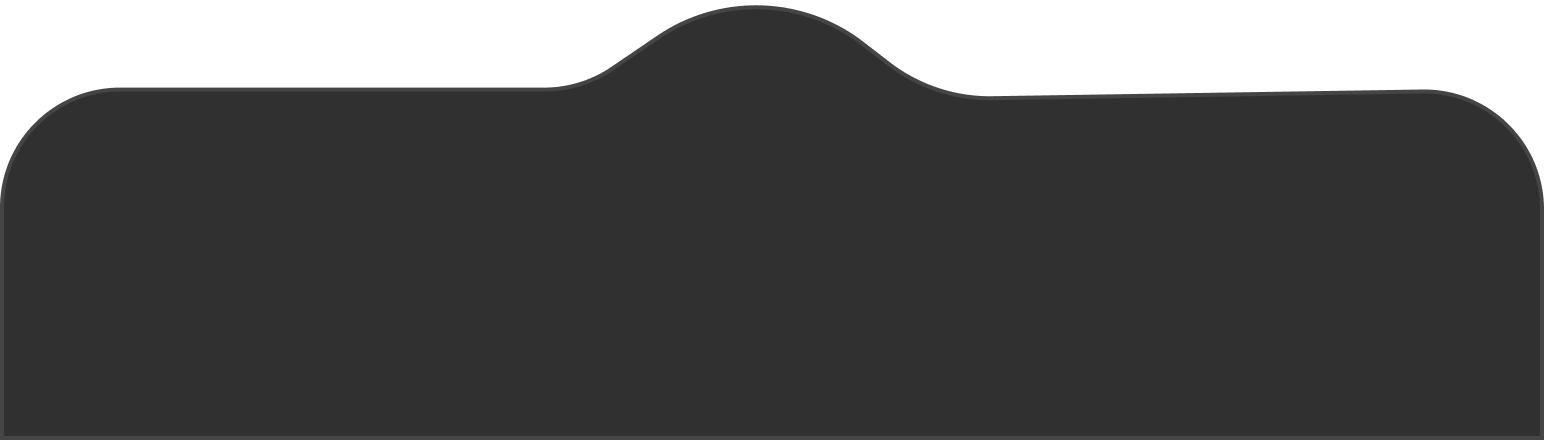
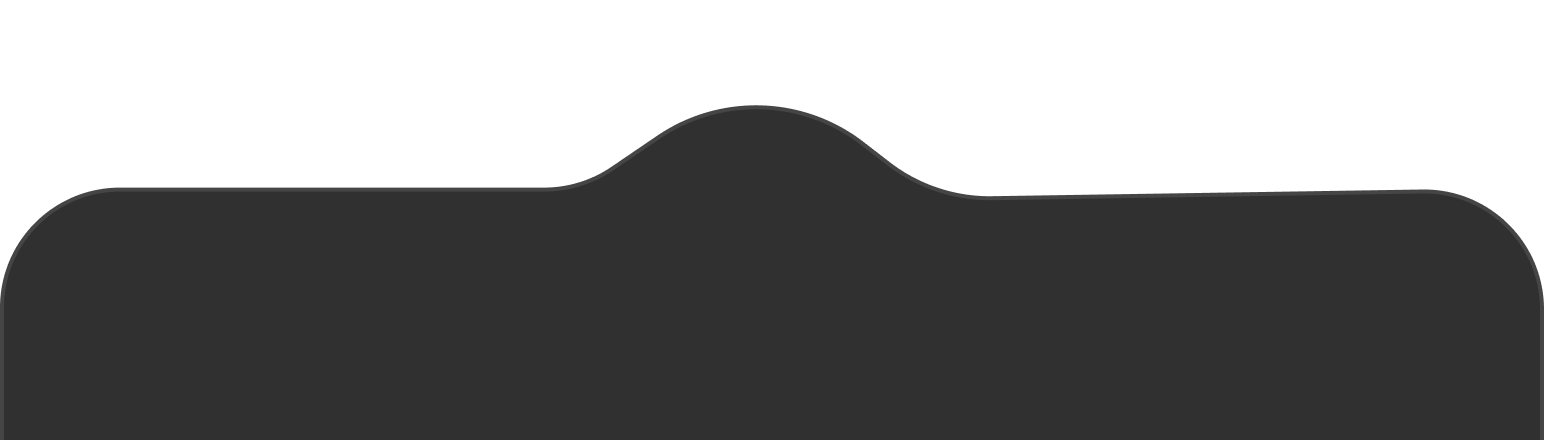
BankingApp

Changed region(s): [[0.0, 0.0, 1.0, 0.6795]]

diff --git a/src/screens/HomeScreen/Style.tsx b/src/screens/HomeScreen/Style.tsx
@@ -48,7 +48,7 @@ const Styles = StyleSheet.create({
         width: 33,
         height:33,
         marginTop:hp('5%'),
-        marginLeft: wp('9%'),
+        marginLeft: wp('12%'),
 
         
       
@@ -70,7 +70,7 @@ const Styles = StyleSheet.create({
         alignSelf: 'center',
         borderRadius: 12,
         elevation: 3,
-        padding:1
+        paddingBottom:10
         
     },
     FlybankStyle: {
@@ -171,7 +171,7 @@ const Styles = StyleSheet.create({
     ListViewStyle: {
         flexDirection: 'row',
         justifyContent: 'space-around',
-        marginTop:'4%'
+        marginTop:'8%'
     },
     ListView: {
         alignItems: 'center',
@@ -361,14 +361,13 @@ const Styles = StyleSheet.create({
         fontSize:10,
         color:Colors.white,
         left:20,
-        top:3
-        // top:-46
+        top:"0%"
     },
     CashBack:{
         color:Colors.white,
         fontFamily:theme.EXTRABOLD,
         fontSize:16,
-        top:1,
+        top:hp(-1),
         textAlign:'center',
         left:20,
 
@@ -378,7 +377,7 @@ const Styles = StyleSheet.create({
         fontFamily:theme.BOLD,
         fontSize:39,
         left:30,
-        top:-10
+        top:hp(-2)
     },
     OfferView:{
         flexDirection:'row',
@@ -389,14 +388,14 @@ const Styles = StyleSheet.create({
         fontSize:13,
         color:Colors.white,
         left:29,
-        marginTop:'8%'
+        top:hp(-1.2)
     },
     TextStylePeriod:{
         fontSize:8,
         color:'#FFFFFF',
         left:wp("6"),
         fontWeight:500,
-        top:hp("-2")
+        top:hp(-2)
     },
     Person1Style:{
         width:48,
@@ -432,8 +431,13 @@ const Styles = StyleSheet.create({
         fontFamily:theme.SEMIBOLD,
         fontSize:15,
         color:Colors.ButtonColor,
-        // left:60
-        marginLeft:'28%'
+        left:wp('18%')
+    },
+    DollarsStyle2:{
+        fontFamily:theme.SEMIBOLD,
+        fontSize:15,
+        color:Colors.ButtonColor,
+        left:wp('23%')   
     },
     FillCircle:{
         width:35,
@@ -442,7 +446,7 @@ const Styles = StyleSheet.create({
     LineImage:{
         width:26,
         left:25,
-        top:-10
+        top:hp(-2.5)
     }
 
 

diff --git a/src/screens/LoginScreen/Index .tsx b/src/screens/LoginScreen/Index .tsx
@@ -194,7 +194,7 @@ const LoginScreen = () => {
                                         setLoginEmail(text);
                                         validateEmailOnChange(text);
                                     }}
-                                    addLeft={<Image style={Styles.EmailImage} source={require('../../images/email.png')} />}
+                                    addLeft={<Image resizeMode='contain' style={Styles.EmailImage} source={require('../../images/email.png')} />}
                                 />
                                 {loginEmailError ? (
                                     <View style={Styles.LoginEmailError}>
@@ -205,7 +205,7 @@ const LoginScreen = () => {
                             <View>
                                 <View style={Styles.inputContainer}>
                                     <View>
-                                        <Image style={Styles.PassImage} source={require('../../images/password.png')} />
+                                        <Image resizeMode='contain' style={Styles.PassImage} source={require('../../images/password.png')} />
                                     </View>
                                     <TextInput
                                         value={loginPassword}
@@ -277,8 +277,6 @@ const LoginScreen = () => {
                                     </View>
                                 ) : null}
                             </View>
-
-
                             <View style={Styles.CustomInputStyle}>
                                 <CustomInput
                                     placeholder={'Email'}

diff --git a/src/navigation/BottomNavigation.tsx b/src/navigation/BottomNavigation.tsx
@@ -26,21 +26,20 @@ const BottomNavigation = () => {
                 tabBarInactiveTintColor: '#646464',
                 tabBarStyle: {
                     position: 'absolute',
-                    backgroundColor: 'transparent',
+                    backgroundColor: '#303030',
                     borderTopWidth: wp(0),
-                    height: hp('14%'),
+                    height: hp('15%'),
                     overflow: 'hidden',
-
-
+                    // borderTopEndRadius:50,
+                    // borderTopStartRadius:50
                 },
                 tabBarBackground: () => (
-                    <ImageBackground resizeMode='contain'
+                    <ImageBackground 
                         source={require('../images/back.png')}
                         style={styles.backgroundImage}
                     />
                 ),
-            }}
-        >
+            }}>
             <Bottom.Screen
                 name="HOME"
                 component={HomeScreen}
@@ -101,8 +100,6 @@ const BottomNavigation = () => {
                                 ]}
                                 source={require('../images/scan2.png')}
                             />
-
-
                         </View>
                     ),
                 }}

diff --git a/src/screens/LoginScreen/Style.tsx b/src/screens/LoginScreen/Style.tsx
@@ -2,11 +2,8 @@ import { StyleSheet, Dimensions, PixelRatio } from 'react-native';
 import theme from '../../utils/Constants';
 import Colors from '../../themes/Colors/Index';
 import { widthPercentageToDP as wp, heightPercentageToDP as hp } from 'react-native-responsive-screen';
-
 const { width, height } = Dimensions.get('window');
-
 const fontSize = (size: number) => size / PixelRatio.getFontScale(); 
-
 const Styles = StyleSheet.create({
     HelloTextStyle: {
         fontFamily: theme.REGULAR,
@@ -57,7 +54,7 @@ const Styles = StyleSheet.create({
     LoginText: {
         textAlign: 'center',
         alignSelf: 'center',
-        paddingTop: hp('1.3%'),
+        paddingTop: hp('1.4%'),
         color: Colors.Login,
         fontFamily: theme.SEMIBOLD,
         fontSize: fontSize(12)
@@ -95,7 +92,7 @@ const Styles = StyleSheet.create({
         marginTop:wp('60%')
     },
     EmailImage: {
-        width: wp('4.5%'),
+        width: wp('5%'),
         height: hp('2%'),
         marginLeft: wp('6%')
     },
@@ -118,7 +115,6 @@ const Styles = StyleSheet.create({
        height:hp("3%"),
        resizeMode:"contain",
        marginLeft: wp('6%')
-
     },
     CheckBoxStyle: {
         flexDirection: 'row',

diff --git a/src/screens/Notification/Index.tsx b/src/screens/Notification/Index.tsx
@@ -15,11 +15,21 @@ const Notification = () => {
     type NavigationProp = StackNavigationProp<RootStackParamList, 'Bottom'>;
     const navigation = useNavigation<NavigationProp>();  return (
     <ScrollView style={Styles.MainView}>
-        <CustomLabel title='Notifications' addLeft={
+        {/* <CustomLabel title='Notifications'
+         addLeft={
             <TouchableOpacity  onPress={()=>navigation.goBack()}>
                 <Image style={Styles.LeftStyle}  source={require('../../images/left.png')}/>
             </TouchableOpacity>
-        }/>
+        }/> */}
+        <View style={Styles.ImageTextStyle}>
+            <TouchableOpacity onPress={()=>navigation.goBack()}>
+            <Image  style={Styles.LeftStyle} source={require('../../images/left.png')}/>
+
+            </TouchableOpacity>
+            <Text style={Styles.LabelStyle}>
+         Notifications
+            </Text>
+        </View>
         <View>
             <Text style={Styles.TodayText}>Today</Text>
         </View>

diff --git a/src/screens/ListScreen/Index.tsx b/src/screens/ListScreen/Index.tsx
@@ -1,11 +1,11 @@
-import { ImageBackground, StyleSheet, Text, TouchableOpacity, View } from 'react-native'
+import { ImageBackground, ScrollView, StyleSheet, Text, TouchableOpacity, View } from 'react-native'
 import React from 'react'
 import Styles from './Style'
 import { Image } from 'react-native'
 
 const ListScreen = () => {
     return (
-        <View >
+        <ScrollView >
             <ImageBackground resizeMode='cover' style={Styles.MainImage} source={require('../../images/home2.png')}>
                 <View>
                     <ImageBackground resizeMode='contain' style={Styles.RectangleImageStyle} source={require('../../images/rectangle4.png')} />
@@ -76,7 +76,7 @@ const ListScreen = () => {
                 
             </ImageBackground>
 
-        </View>
+        </ScrollView>
     )
 }
 

diff --git a/src/screens/ListScreen/Style.tsx b/src/screens/ListScreen/Style.tsx
@@ -1,15 +1,20 @@
-import { StyleSheet, Text, View } from 'react-native'
+import { Dimensions, PixelRatio, StyleSheet, Text, View } from 'react-native'
 import React from 'react'
 import theme from '../../utils/Constants'
 import Colors from '../../themes/Colors/Index'
+import { widthPercentageToDP as wp, heightPercentageToDP as hp } from 'react-native-responsive-screen';
 
+const { width, height } = Dimensions.get('window');
+
+const fontSize = (size: number) => size / PixelRatio.getFontScale(); 
 
 const Styles = StyleSheet.create({
     RectangleImageStyle:{
-     width:'100%',
-     height:158,
+     width:'93%',
+     height:hp("22%"),
      alignSelf:'center',
      marginTop:'19%',
+     marginLeft:wp('9%')
     },
     MainImage:{
         width:'100%',

diff --git a/src/screens/Notification/Style.tsx b/src/screens/Notification/Style.tsx
@@ -11,7 +11,7 @@ const Styles = StyleSheet.create({
     LeftStyle: {
         width: 33,
         height: 33.9,
-        right: '270%'
+        marginLeft:'20%'
     },
     TodayText:{
         fontFamily:theme.MEDIUM,
@@ -66,6 +66,19 @@ const Styles = StyleSheet.create({
         color:'#858585',
         fontFamily:theme.REGULAR,
         fontSize:9
+    },
+    LabelStyle:{
+        fontFamily:theme.SEMIBOLD,
+        fontSize:20,
+        color:Colors.white,
+        textAlign:'center',
+        flex:1,
+        marginRight:'20%'
+    },
+    ImageTextStyle:{
+    flexDirection:"row",
+    alignItems:'center',
+    marginTop:"10%",
     }
 })
 export default Styles

diff --git a/src/components/CustomLabel/Index.tsx b/src/components/CustomLabel/Index.tsx
@@ -13,7 +13,6 @@ const CustomLabel = (props:CustomLabelprops) => {
     </View>
   )
 }
-
 export default CustomLabel
 
 const styles = StyleSheet.create({
@@ -22,7 +21,8 @@ const styles = StyleSheet.create({
     alignSelf:'center',
     flexDirection:'row',
     alignItems:'center',
-    justifyContent:'space-between'
+    justifyContent:'space-between',
+    width:'90%'
     },
     LabelStyle:{
         fontFamily:theme.SEMIBOLD,

diff --git a/src/screens/HomeScreen/Index.tsx b/src/screens/HomeScreen/Index.tsx
@@ -176,7 +176,7 @@ const HomeScreen = () => {
                     <Text style={Styles.DateStyle}>29 December 2024</Text>
                 </View>
                 <View>
-                    <Text style={[Styles.DollarsStyle, { left: '10%', }]}>+$ 81.12,00</Text>
+                    <Text style={Styles.DollarsStyle2}>+$ 81.12,00</Text>
                 </View>
             </View>
             

diff --git a/src/screens/DepositeScreen/Style.tsx b/src/screens/DepositeScreen/Style.tsx
@@ -12,13 +12,13 @@ const Styles = StyleSheet.create({
     LeftStyle: {
         width: 33,
         height: 33.9,
-        right: '280%',
+        // right: '280%',
         marginTop:'10%'
     },
     bellstyle: {
         width: 33,
         height: 33.9,
-        left:'280%',
+        // left:'280%',
         marginTop:'10%'
 
     },
